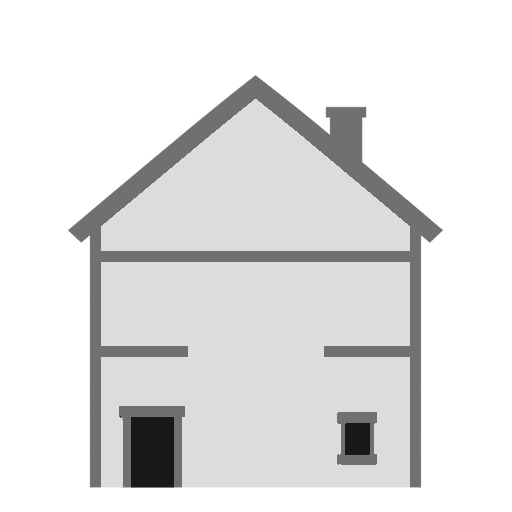
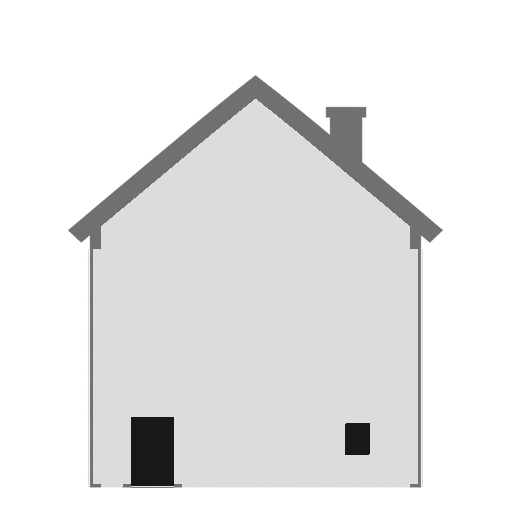
Simplify settlement buildings into silhouettes

Changed region(s): [[0.1562, 0.4688, 0.8438, 0.9375], [0.6562, 0.7812, 0.75, 0.9062]]

diff --git a/crates/strategic-web/static/css/layout.css b/crates/strategic-web/static/css/layout.css
@@ -265,7 +265,7 @@
   background-blend-mode: color, normal;
   -webkit-mask: var(--service-building-image) center bottom / contain no-repeat;
   mask: var(--service-building-image) center bottom / contain no-repeat;
-  filter: brightness(var(--building-light, 78%)) brightness(0.7);
+  filter: brightness(var(--building-light, 78%)) brightness(0.55);
   pointer-events: none;
 }
 

diff --git a/crates/strategic-web/src/templates/layout.rs b/crates/strategic-web/src/templates/layout.rs
@@ -90,7 +90,7 @@ fn page_shell(title: &str, header: Markup, content: Markup, scripts: ScriptProfi
                 link rel="stylesheet" href="/static/css/base.css?v=environment-14";
                 // Shared CSS
                 link rel="stylesheet" href="/static/css/reset.css";
-                link rel="stylesheet" href="/static/css/layout.css?v=left-rail-scrollbars-3-settlement-horizons-1";
+                link rel="stylesheet" href="/static/css/layout.css?v=left-rail-scrollbars-3-settlement-silhouettes-2";
                 link rel="stylesheet" href="/static/css/components.css?v=coin-currencies-3";
                 link rel="stylesheet" href="/static/css/strategic.css?v=inventory-browser-15-religion-5-travel-polish-9";
                 link rel="stylesheet" href="/static/css/utilities.css?v=inventory-browser-15";

diff --git a/crates/strategic-web/AGENTS.md b/crates/strategic-web/AGENTS.md
@@ -283,10 +283,12 @@ cartoon village, a textured painting, or a detailed model building.
 - Reserve the largest uninterrupted facade field for the overlaid service mark.
   Place doors beside that field, normally at a lower outer corner, rather than
   centered beneath it; this keeps the building low and the mark large.
-- Keep that central service-mark field free of structural supports. Horizontal
-  floor bands, tie beams, braces, columns, and other secondary-tone shapes may
-  frame the field but must not cross behind the overlaid mark. Preserve an
-  uninterrupted light-wall area across the full mark footprint.
+- Treat town and city service buildings as restrained backlit silhouettes.
+  Below the roofline, keep the facade as one uninterrupted wall plane: do not
+  add floor beams, half-timber grids, pilasters, moldings, or clipped support
+  fragments. Reserve secondary shading for continuous roof and outer-contour
+  shapes, and reserve the darkest tone for doors and windows. This prevents
+  structural lines from appearing to stop abruptly around the service mark.
 - Keep openings sparse: normally one doorway and at most one additional window.
   Market stalls may use open bays and supports instead of a door.
 - Vary silhouettes with a few historically grounded cues appropriate to circa
